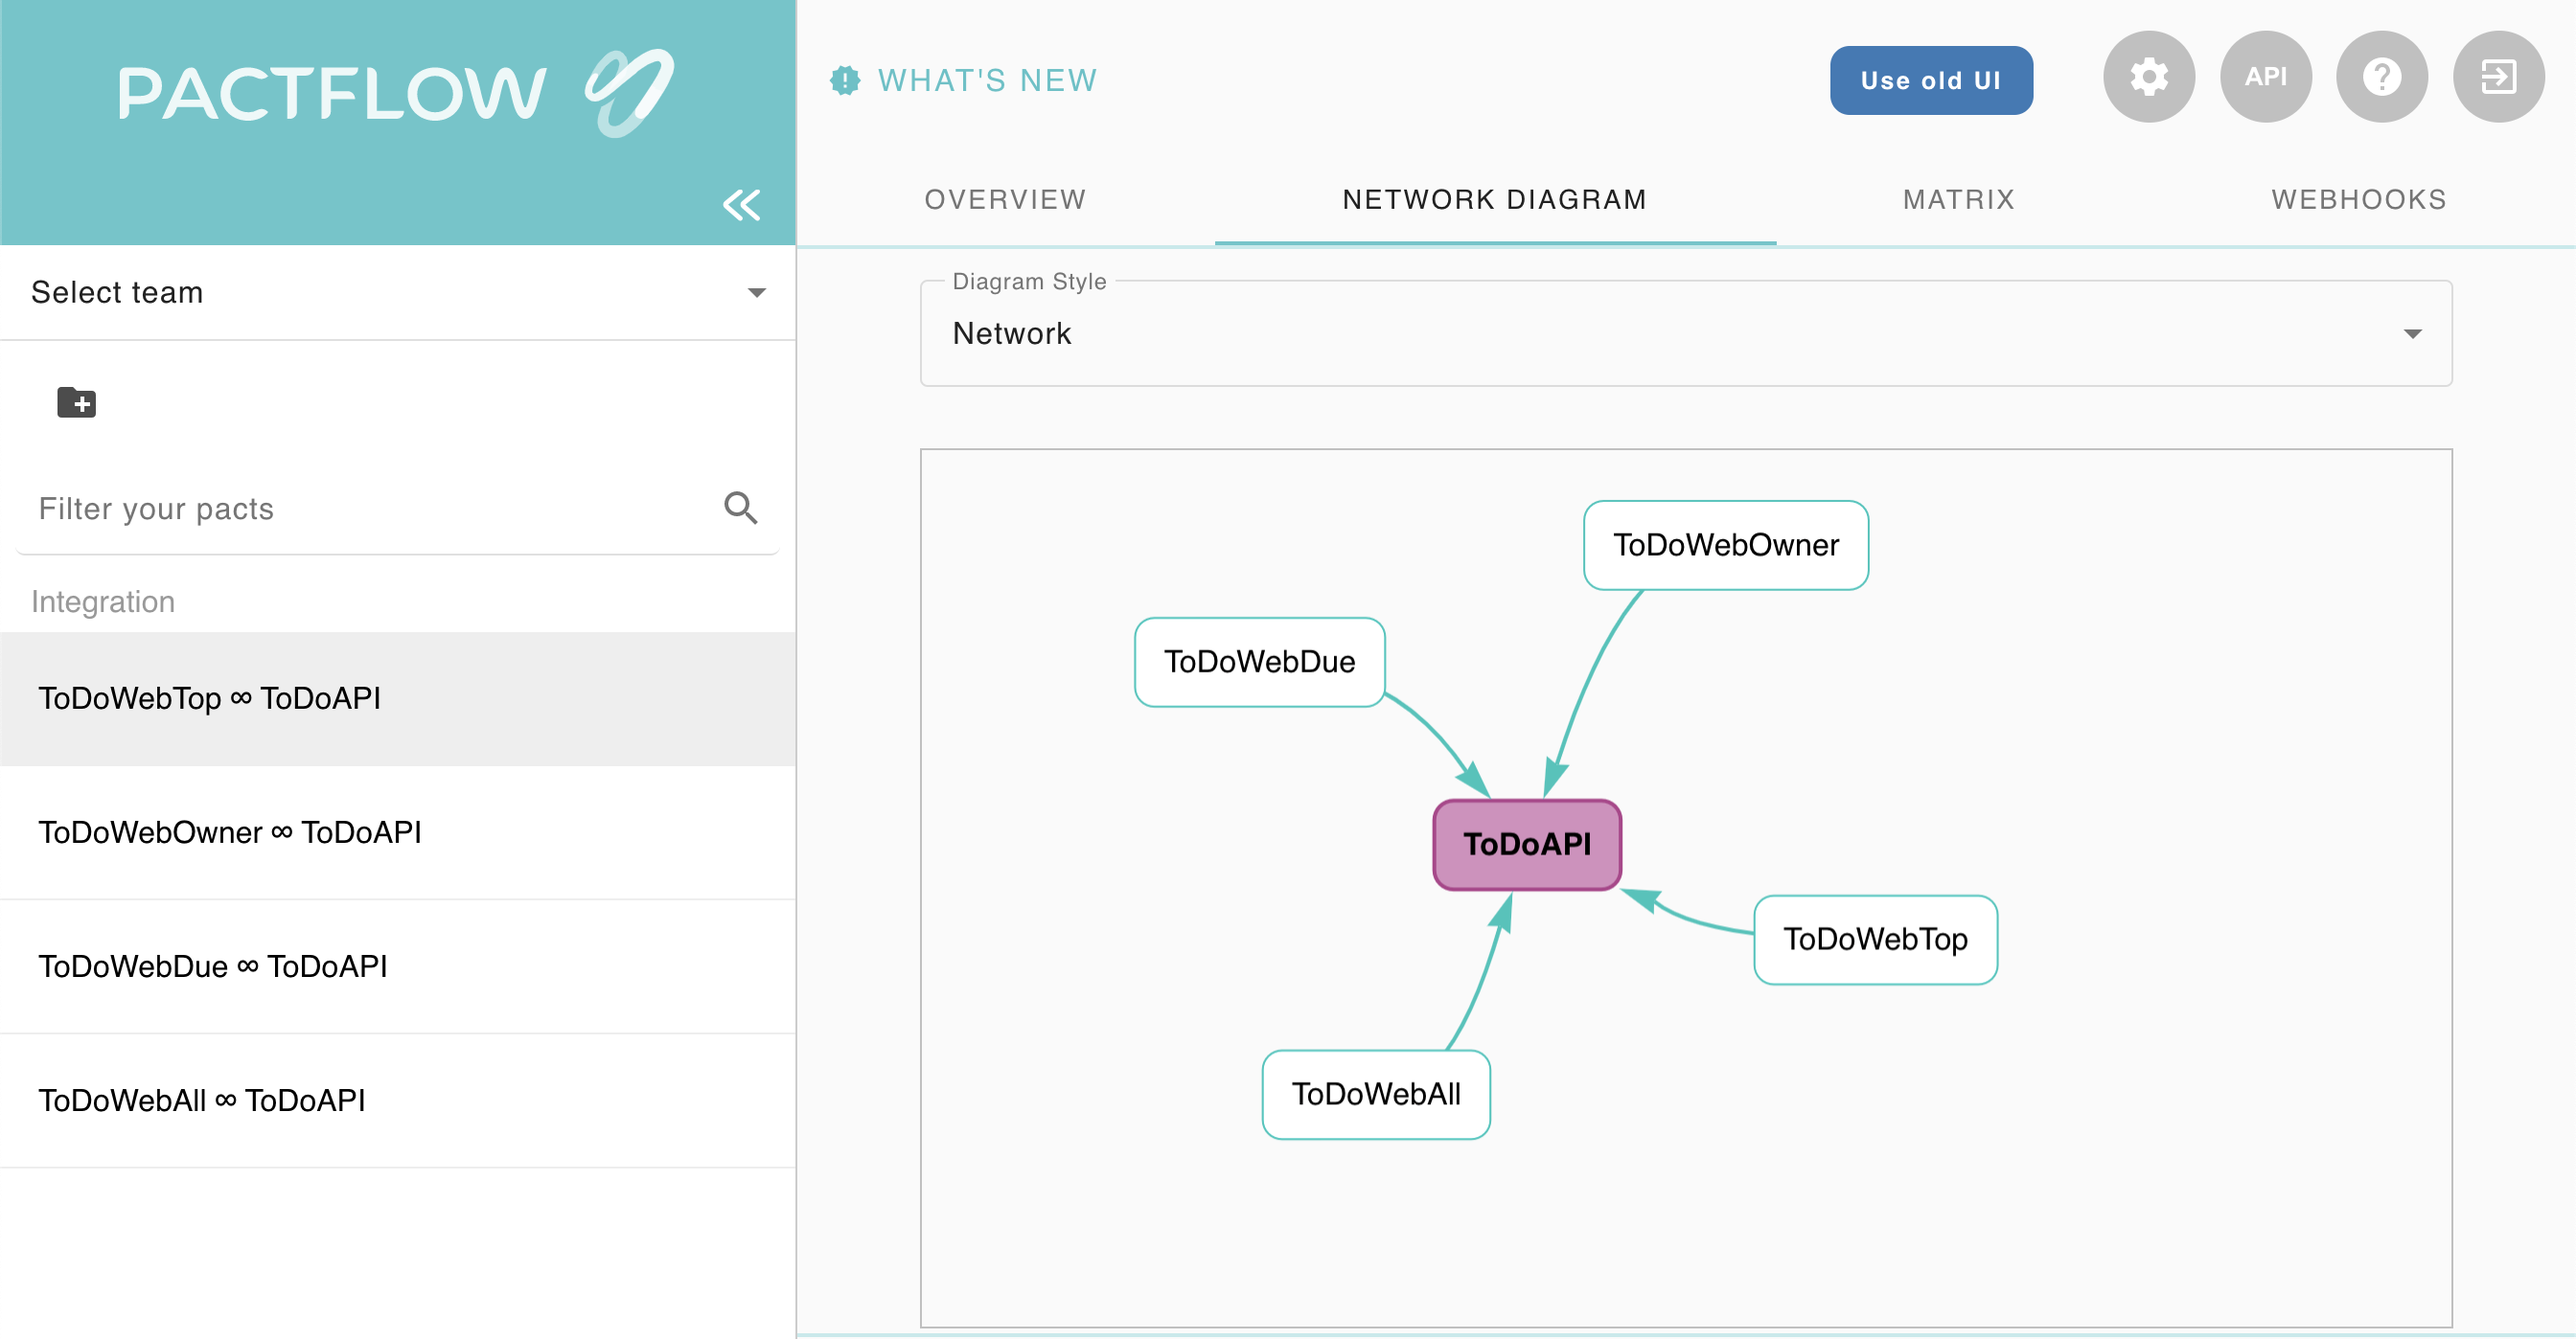
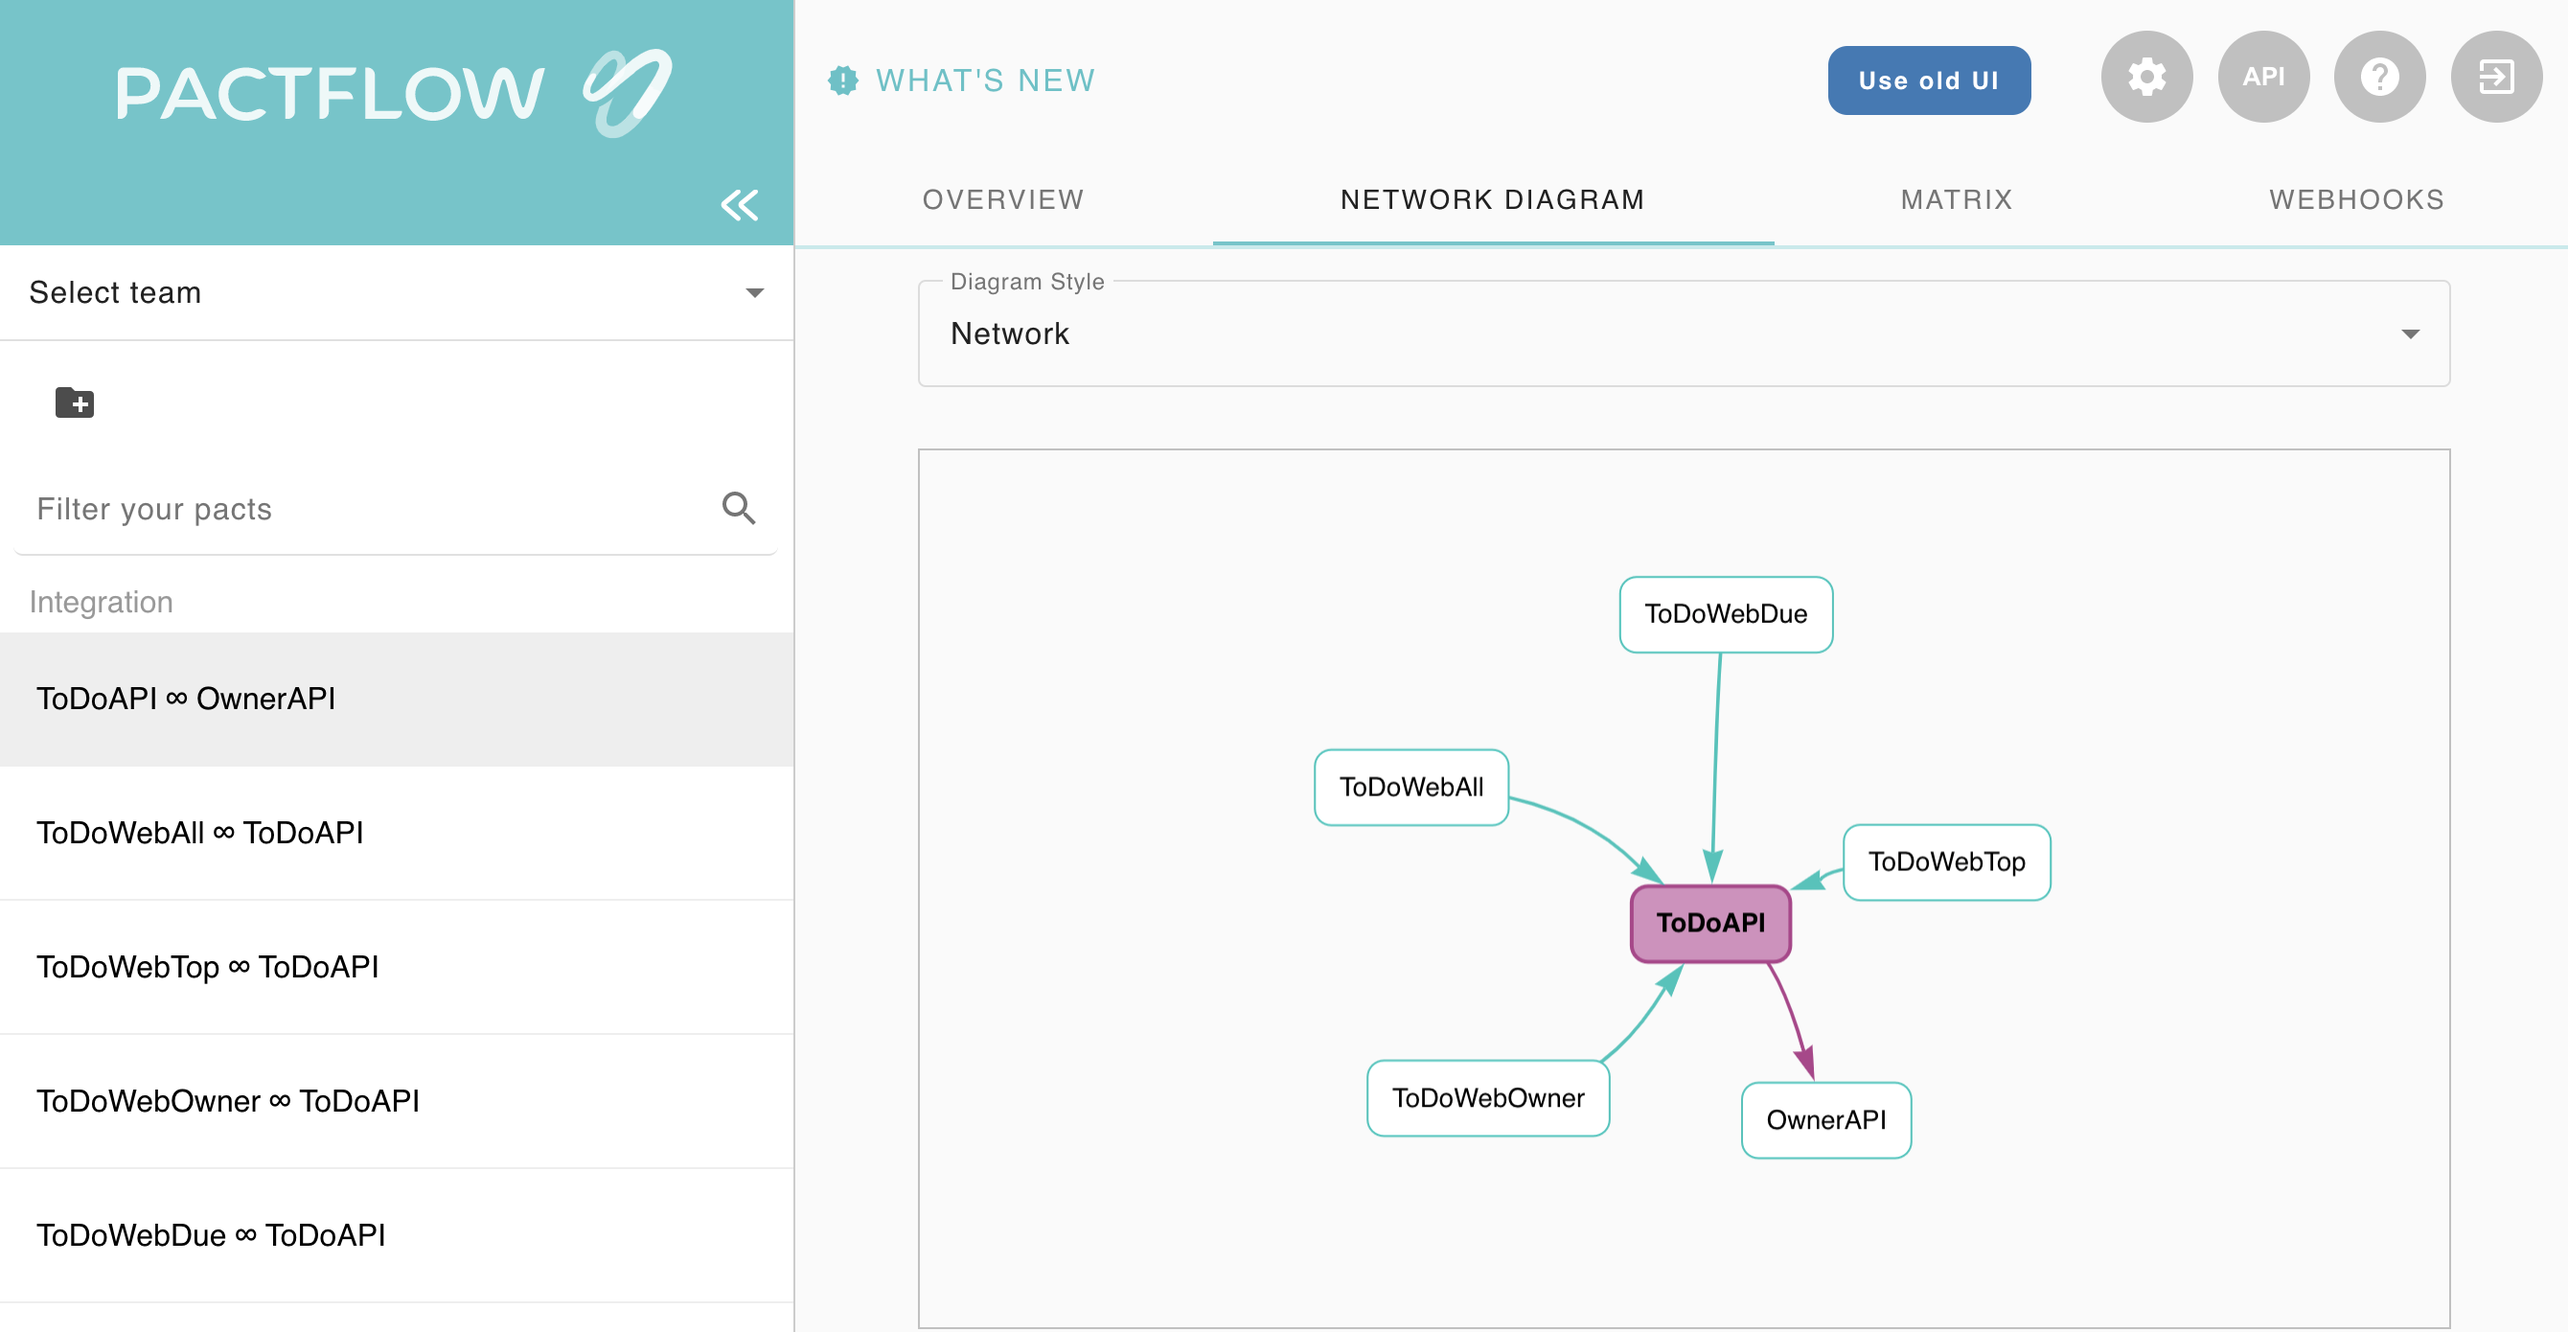
updated readme

diff --git a/README.md b/README.md
@@ -611,6 +611,172 @@ public Date getCreated() {
 </details>
 
 <details>
+  <summary>Java Consumer to Java Provider</summary>
+
+  Many providers depend on other providers too.  In this section we will test drive a new owner provider that `provider-todo` will use to look up owner usernames.
+
+  ### Set Up
+
+  - `cd` into the `producer-todo` directory
+  - Add dependencies to the pom.xml
+
+```
+<dependency>
+  <groupId>org.springframework.boot</groupId>
+  <artifactId>spring-boot-starter-webflux</artifactId>
+</dependency>
+<dependency>
+  <groupId>au.com.dius</groupId>
+  <artifactId>pact-jvm-consumer-junit_2.11</artifactId>
+  <version>3.5.0</version>
+  <scope>test</scope>
+</dependency>
+```
+
+  - Add plugin to the pom.xml
+
+```
+<plugin>
+  <groupId>au.com.dius.pact.provider</groupId>
+  <artifactId>maven</artifactId>
+  <version>4.3.5</version>
+  <configuration>
+    <pactBrokerUrl>${env.PACT_BROKER_BASE_URL}</pactBrokerUrl>
+    <pactBrokerToken>${env.PACT_BROKER_TOKEN}</pactBrokerToken>
+    <pactBrokerAuthenticationScheme>Bearer</pactBrokerAuthenticationScheme>
+  </configuration>
+</plugin>
+```
+
+### Write a failing test
+
+- add a new test under `src/test/java/com/pairgood/todo/contract` with the name `ConsumerOwnerContractTest.java` and the following contents
+
+```java
+package com.pairgood.todo.contract;
+
+import au.com.dius.pact.consumer.Pact;
+import au.com.dius.pact.consumer.PactProviderRuleMk2;
+import au.com.dius.pact.consumer.PactVerification;
+import au.com.dius.pact.consumer.dsl.PactDslJsonBody;
+import au.com.dius.pact.consumer.dsl.PactDslWithProvider;
+import au.com.dius.pact.model.RequestResponsePact;
+import org.junit.Rule;
+import org.junit.Test;
+
+import java.util.Collections;
+import java.util.Map;
+
+import static org.junit.Assert.assertEquals;
+import static org.junit.jupiter.api.Assertions.assertNotNull;
+
+import com.pairgood.todo.service.Owner;
+import com.pairgood.todo.service.OwnerService;
+
+public class ConsumerOwnerContractTest {
+
+    private int port = 8080;
+
+    @Rule
+    public PactProviderRuleMk2 mockProvider = new PactProviderRuleMk2("OwnerAPI", "localhost", port, this);
+
+    @Pact(consumer = "ToDoAPI", provider = "OwnerAPI")
+    public RequestResponsePact createPact(PactDslWithProvider builder) {
+        Map<String, String> headers = Collections.singletonMap("Content-Type", "application/json");
+        PactDslJsonBody body = new PactDslJsonBody().stringType("username", "testUsername");
+
+        return builder
+          .given("test GET")
+            .uponReceiving("GET REQUEST")
+            .path("/owners/1")
+            .method("GET")
+          .willRespondWith()
+            .status(200)
+            .headers(headers)
+            .body(body)
+          .toPact();
+    }
+
+    @Test
+    @PactVerification()
+    public void shouldReturnOnwer(){
+        Owner owner = new OwnerService("http://localhost:" + port).findById(1);
+        assertNotNull(owner);
+        assertEquals("testUsername", owner.getUsername());
+    }
+}
+```
+
+- [@Rule](https://docs.pact.io/implementation_guides/jvm/consumer/junit/#using-the-pact-junit-rule) sets up and tears down the mock provider.
+- [@Pact](https://docs.pact.io/implementation_guides/jvm/consumer/junit/#using-the-pact-junit-rule) sets up the available mock provider endpoints, requests and responses.
+- [@PactVerification()](https://docs.pact.io/implementation_guides/jvm/consumer/junit/#using-the-pact-junit-rule) runs the `@Test` with the mock pact server running
+
+### Make it go green
+- add a new test under `src/main/java/com/pairgood/todo/service` with the name `OwnerService.java` and the following contents
+
+```java
+package com.pairgood.todo.service;
+
+import org.springframework.http.HttpHeaders;
+import org.springframework.http.MediaType;
+import org.springframework.web.reactive.function.client.WebClient;
+
+public class OwnerService {
+
+    private WebClient webClient;
+
+    public OwnerService(String baseUrl){
+        webClient= WebClient.builder()
+        .baseUrl(baseUrl)
+        .defaultHeader(HttpHeaders.CONTENT_TYPE, MediaType.APPLICATION_JSON_VALUE)
+        .build();
+    }
+
+    public Owner findById(long id){
+        return webClient.get()
+		.uri("/owners/" + id)
+		.retrieve()
+		.bodyToMono(Owner.class).block();
+    }
+}
+```
+- add a new test under `src/main/java/com/pairgood/todo/service` with the name `Owner.java` and the following contents
+
+```java
+package com.pairgood.todo.service;
+
+
+public class Owner{
+
+    private Long id;
+    private String username;
+
+    public long getId() {
+        return id;
+    }
+
+    public void setId(Long id){
+        this.id = id;
+    }
+
+    public String getUsername() {
+        return username;
+    }
+
+    public void setUsername(String username) {
+        this.username = username;
+    }
+}
+```
+- rerun the test
+- green
+
+### Publish pact
+- run `./mvnw pact:publish`
+- Log into your Pactflow server `https://[your username].pactflow.io/` and you should seed your new contract `ToDoAPI ∞ OwnerAPI` listed under the `Integration` heading
+</details>
+
+<details>
   <summary>Pactflow Network Diagram</summary>
 
   One powerful benefit of using Pactflow is their network diagram.  This helps teams visualize consumer/producer relationships across their enterprise.
